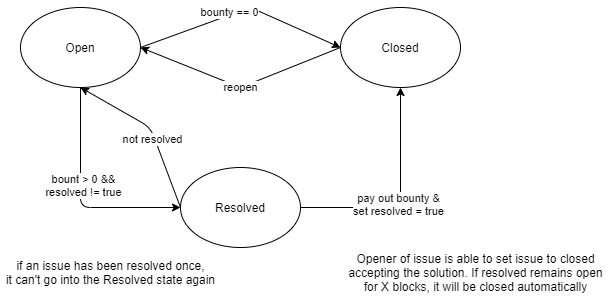
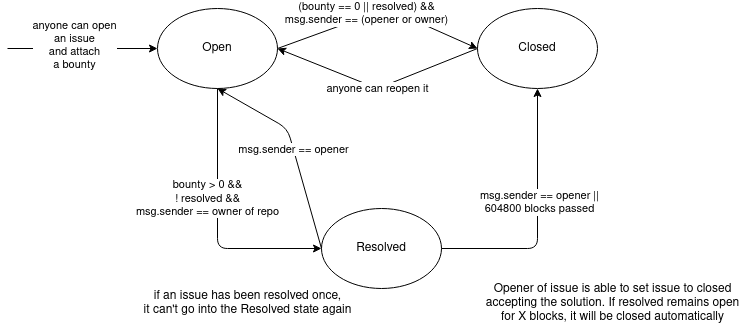
Updated the issue state changes

diff --git a/docs/img/issues.md b/docs/img/issues.md
@@ -1,13 +1,15 @@
 * Anyone can open an issue and attach a bounty.
-* If there is no bounty, the opener of the issue or the owner of the repository can close the issue.
-* If there is a bounty and the current state is `open`:
+* The current state is `open`:
     * the state can go `resolved`
+        * there is a bounty
         * if it has no been resolved before
         * and the owner of the repository is providing a solution
-    * from `resolved` the state can go to either `open` or `closed`
-        * to `open` if the opener of the issue is not satisfied with the solution
-        * to `closed`
-            * if the opener is satisfied with the solution or
-            * the resolver waits 604800 blocks
-* If there is no bounty and it has been resolved before, the opener or the owner of the repository can move it to `closed`
+    * the state can go to `closed`
+        * there is no bounty -> the opener or the owner of the repository can close the issue or
+        * if the issue has been resolved in the past and the sender of the tx is the opener or the owner of the repository
+* from `resolved` the state can go to either `open` or `closed`
+    * to `open` if the opener of the issue is not satisfied with the solution
+    * to `closed` (which pays out the resolver)
+        * if the opener is satisfied with the solution or
+        * the resolver waits 604800 blocks and closes it
     
